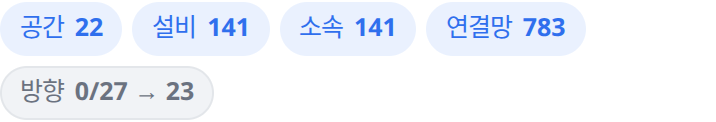
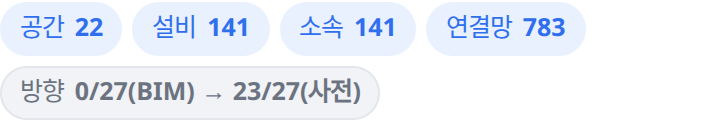
방향 칩의 두 수치에 분모와 출처를 붙여 0/27(BIM) → 23/27(사전) 으로 보인다 (OE-BIM-16)

Changed region(s): [[0.1536, 0.6393, 0.5223, 0.8607], [0.2765, 0.9344, 0.5223, 0.9836], [0.2765, 0.541, 0.5223, 0.5902]]

diff --git a/src/lib/profile.ts b/src/lib/profile.ts
@@ -77,6 +77,7 @@ export function profileOf(model: Model): Profile {
   // 등급은 내보내는 것과 같은 기준으로 잰다. 포트 방향 + 사람이 확정한 규칙 방향이다.
   const flows = deviceFlows(withInferred(model.connections, true), (id) => conduitIds.has(id), devices.map((e) => e.id))
   // 확정 전 규칙 방향까지 넣으면 얼마나 채워지는지. 칩 설명에만 쓴다.
+  const confirmedRules = model.connections.some((x) => x.inferred?.confirmed)
   const candidate = model.connections.some((x) => x.inferred && !x.inferred.confirmed)
     ? deviceFlows(withInferred(model.connections), (id) => conduitIds.has(id), devices.map((e) => e.id)).fed.size
     : null
@@ -144,8 +145,12 @@ export function profileOf(model: Model): Profile {
       have: fed,
       of: linked,
       level: level(fed, linked),
-      // 목표선(등급 4)은 두 수치를 같이 보인다(OE-BIM-16, D12 권고안). 포트 + 확정한 규칙 방향 → 확정 전 규칙 방향까지.
-      figure: candidate !== null && candidate > fed && linked > 0 ? `${figure(fed, linked)} → ${candidate}` : figure(fed, linked),
+      // 목표선(등급 4)은 두 수치를 출처와 같이 보인다(OE-BIM-16, D12 권고안). 앞은 BIM 포트(+ 사람이 확정한 규칙 방향),
+      // 뒤는 확정 전 규칙 방향까지 — 규칙은 화면의 출처 "사전"(Src.vue 의 dict)이다. `0/27(BIM) → 23/27(사전)`.
+      figure:
+        candidate !== null && candidate > fed && linked > 0
+          ? `${fed}/${linked}(${confirmedRules ? 'BIM+확정' : 'BIM'}) → ${candidate}/${linked}(사전)`
+          : figure(fed, linked),
       note:
         (linked === 0
           ? '덕트·배관으로 다른 기기와 이어진 기기가 없다'

diff --git a/src/lib/profile.test.ts b/src/lib/profile.test.ts
@@ -38,13 +38,13 @@ describe('profileOf — 파일이 온톨로지를 어디까지 채우나', () =>
     // 좌표 없는 센서 하나가 설비·소속 칸을 4/5 로 만든다. 방향은 연결이 아니라 **기기**로 센다 —
     // 덕트로 다른 기기와 이어진 기기 셋(공조기, 토출구 둘) 중 흐름 방향으로 이어진 것은 공조기와
     // 첫 토출구 둘이다. 둘째 토출구는 SOURCEANDSINK 포트라 방향을 모른다. 규칙 방향은 거기에도 방향을 주지만 아직 확정 전이라,
-    // 목표선 칩은 두 수치(포트·확정 → 확정 전 규칙 포함)를 같이 보인다(OE-BIM-16). 칠은 앞 수치로 정한다.
+    // 목표선 칩은 두 수치를 출처와 같이 보인다 — BIM 포트로 2/3, 규칙(사전)까지 3/3 (OE-BIM-16). 칠은 앞 수치로 정한다.
     expect(shown(p)).toEqual([
       ['space', 'full', '1'],
       ['equipment', 'partial', '4/5'],
       ['location', 'partial', '4/5'],
       ['network', 'full', '3'],
-      ['direction', 'partial', '2/3 → 3'],
+      ['direction', 'partial', '2/3(BIM) → 3/3(사전)'],
     ])
     expect(p.tiers[4].note).toContain('확정 전 규칙 방향까지 넣으면 3대')
     // 도관은 분모에 넣지 않는다. 기기 5대(덕트 1개는 따로)다.

diff --git a/scripts/check-sample.test.ts b/scripts/check-sample.test.ts
@@ -1012,8 +1012,8 @@ describe.skipIf(!existsSync(SAMPLE) || !existsSync(MEP) || !existsSync(DUPLEX_AR
     // 연결 단위로는 39%(190/485)가 방향을 아는데, 기기에서 출발한 방향 사슬은 전부 중간의
     // SOURCEANDSINK 에서 끊긴다. 기기끼리 닿는 흐름은 0 이다.
     expect(chips(DUPLEX_HVAC)).toBe('공간 1 | 설비 40 | 소속 0/40 | 연결망 485 | 방향 0/26')
-    // 목표선(방향) 칩은 두 수치다(OE-BIM-16): 포트·확정한 규칙 방향 0/27 → 확정 전 규칙 방향까지 23.
-    expect(chips(DUPLEX_MEP)).toBe('공간 22 | 설비 141 | 소속 141 | 연결망 783 | 방향 0/27 → 23')
+    // 목표선(방향) 칩은 두 수치다(OE-BIM-16): BIM 포트로 0/27, 규칙(사전)으로 짐작한 방향까지 23/27.
+    expect(chips(DUPLEX_MEP)).toBe('공간 22 | 설비 141 | 소속 141 | 연결망 783 | 방향 0/27(BIM) → 23/27(사전)')
     // COBie 판본은 형상이 없다. 좌표도 외곽선도 0 인데 소속은 BIM 이 전부 말해 준다.
     expect(chips(DUPLEX_COBIE)).toBe('공간 0/22 | 설비 0/133 | 소속 133 | 연결망 0 | 방향 —')
   }, 300_000)

diff --git a/docs/prd/features/E05-BIM/OE-BIM-16.md b/docs/prd/features/E05-BIM/OE-BIM-16.md
@@ -28,14 +28,15 @@ depends: ["D1","D12","OE-REQ-04"]
 
 - `scripts/check-sample.test.ts` "파일 목록의 등급 칩": 가진 BIM 마다 칩 다섯 개의 수치
 - `scripts/check-sample.test.ts` "목록의 칩과 파일을 연 뒤의 칩이 같다 — 읽을 것 옵션을 바꿔도": 서버 목록(`data-catalog.ts`)과 열람(워커 + 규칙 방향) 수치가 같다
-- `src/lib/profile.test.ts` "설비 파일은 칸마다 빠진 만큼 분수로 보인다": 방향 칩이 `2/3 → 3`(포트·확정 → 확정 전 규칙 포함)
+- `src/lib/profile.test.ts` "설비 파일은 칸마다 빠진 만큼 분수로 보인다": 방향 칩이 `2/3(BIM) → 3/3(사전)`
 - `e2e/data-list.spec.ts` "등급 응답의 모양이 달라도 목록이 멈추지 않는다"
-- 화면: `docs/figures/app-tier-direction-two.png` (Duplex MEP 의 방향 칩 `0/27 → 23`)
+- 화면: `docs/figures/app-tier-direction-two.png` (Duplex MEP 의 방향 칩 `0/27(BIM) → 23/27(사전)`)
 
 ## 메모
 
 - 칩 다섯은 공간·설비·소속·연결망·방향이고, 목록과 열람이 같은 `profileOf`(`src/lib/profile.ts`)로 잰다.
-- 방향(등급 4) 칩은 두 수치를 같이 보인다: 포트 + 사람이 확정한 규칙 방향 → 확정 전 규칙 방향까지 넣은 기기 수(예 Duplex MEP `0/27 → 23`).
-  칩 색은 앞 수치(내보내는 것과 같은 기준)로 정한다. 확정 전 규칙이 더하는 것이 없으면 수치 하나다.
+- 방향(등급 4) 칩은 두 수치를 출처와 같이 보인다: `0/27(BIM) → 23/27(사전)`(Duplex MEP). 앞은 BIM 포트로 방향을 아는 기기,
+  뒤는 흐름 규칙(화면 출처 "사전")으로 짐작한 방향까지 넣은 기기다. 사람이 확정한 규칙 방향이 있으면 앞 수치에 들고 꼬리표가 `BIM+확정` 이 된다.
+  칩 색은 앞 수치(내보내는 것과 같은 기준)로 정한다. 규칙이 더하는 것이 없으면 수치 하나다.
 - 연결망(등급 3) 칩의 두 번째 수치는 아직 없다. 등급 3 지표(계통 소속 기기)는 사전이 채우는 몫이 없어(성수 60% (BIM 60%)) PRD 1.8 의
   "97%(사전 포함)" 과 맞지 않는다. 산식은 D12·OE-REQ-04 결정 후에 맞출 예정이다.
